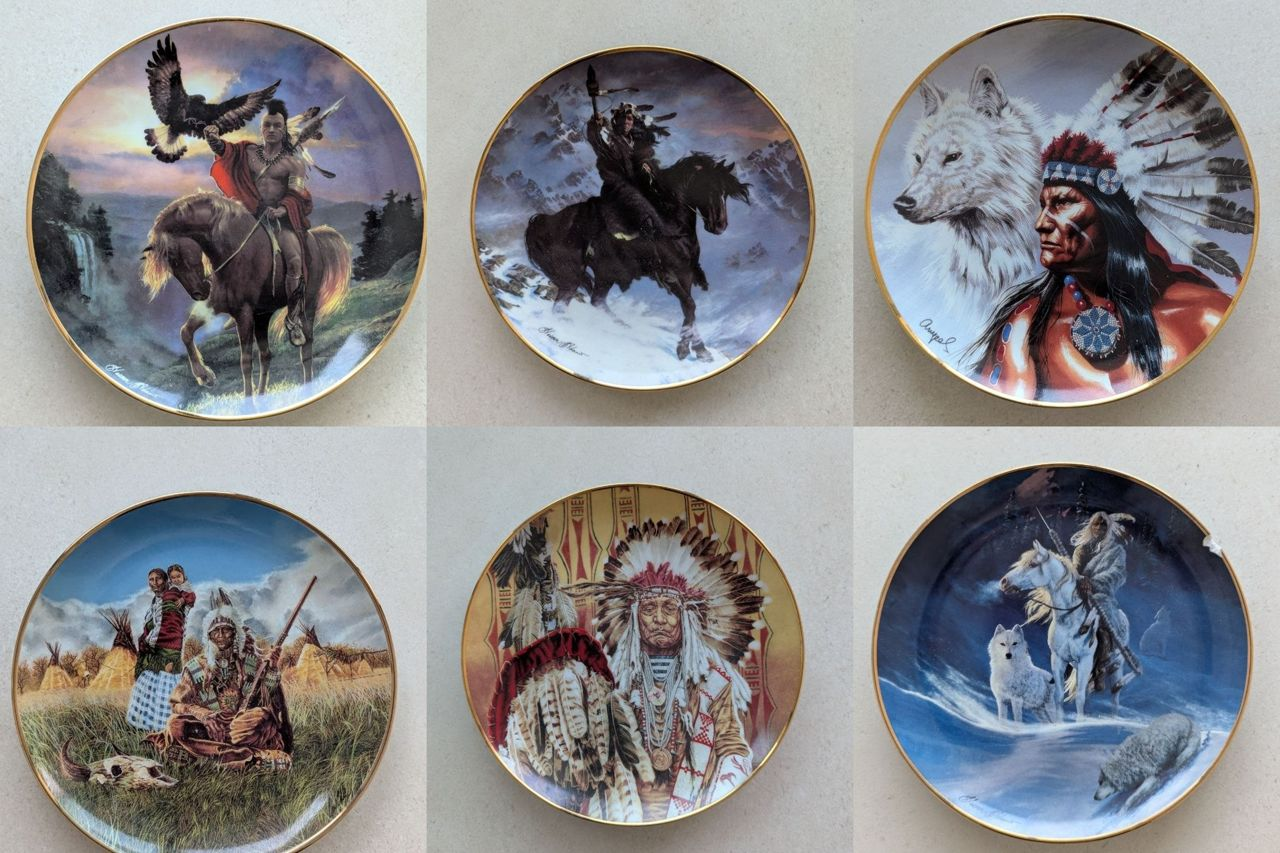
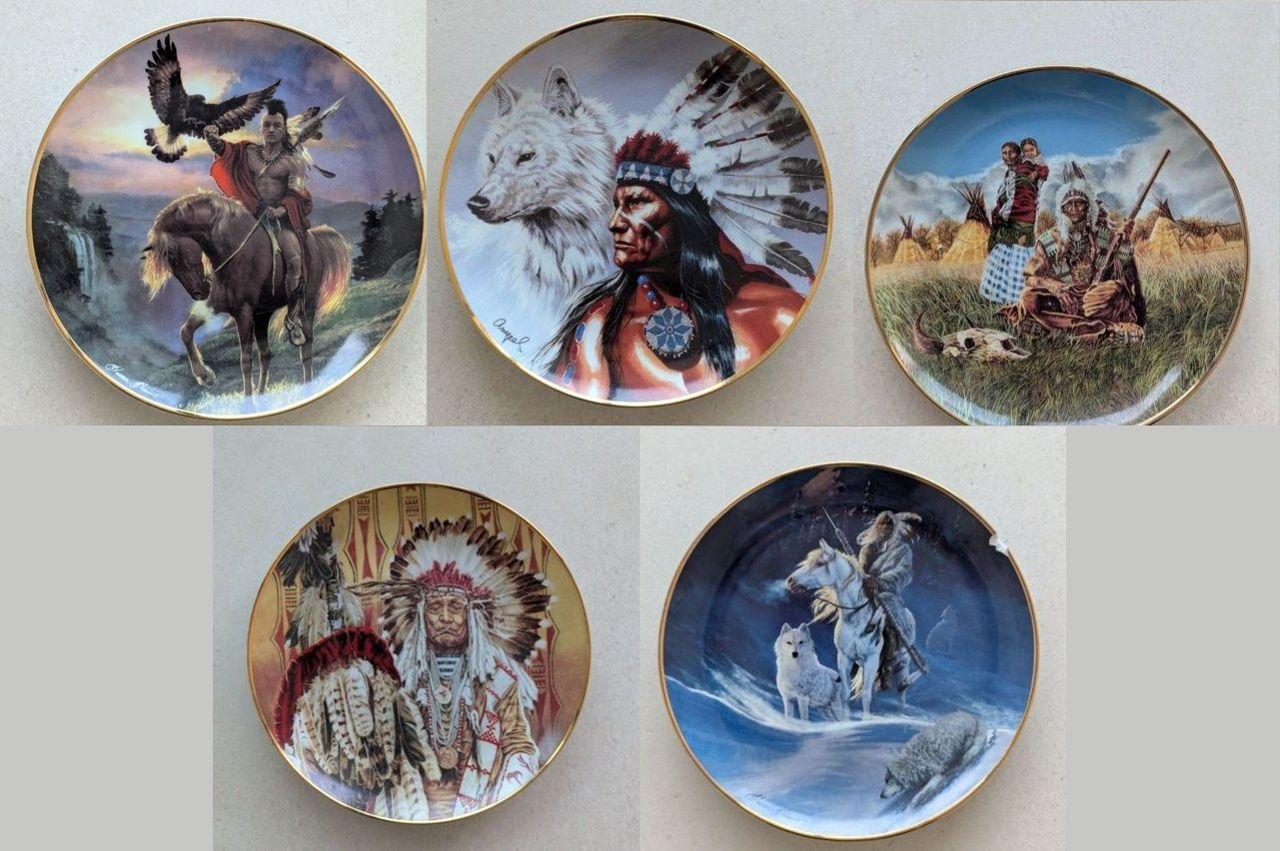
Pratos: tira o Spirit of the West Wind (dado à mãe do Ewerton); 5 pratos, conjunto R$ 310, colagem nova
Claude-Session: https://claude.ai/code/session_01KxhiXcbHDBDBS2g496oJWA

diff --git a/index.html b/index.html
@@ -180,7 +180,7 @@
 <article class="nota" style="--giro:1.3deg" data-id="panela"><div class="carrossel" data-total="9"><div class="trilho"><img src="fotos/panela-1-m.jpg" alt="Panela multifuncional Morphy Richards, marca britânica, 6 em 1, foto 1 de 9" draggable="false"><img src="fotos/panela-2-m.jpg" alt="Panela multifuncional Morphy Richards, marca britânica, 6 em 1, foto 2 de 9" loading="lazy" draggable="false"><img src="fotos/panela-3-m.jpg" alt="Panela multifuncional Morphy Richards, marca britânica, 6 em 1, foto 3 de 9" loading="lazy" draggable="false"><img src="fotos/panela-4-m.jpg" alt="Panela multifuncional Morphy Richards, marca britânica, 6 em 1, foto 4 de 9" loading="lazy" draggable="false"><img src="fotos/panela-5-m.jpg" alt="Panela multifuncional Morphy Richards, marca britânica, 6 em 1, foto 5 de 9" loading="lazy" draggable="false"><img src="fotos/panela-6-m.jpg" alt="Panela multifuncional Morphy Richards, marca britânica, 6 em 1, foto 6 de 9" loading="lazy" draggable="false"><img src="fotos/panela-7-m.jpg" alt="Panela multifuncional Morphy Richards, marca britânica, 6 em 1, foto 7 de 9" loading="lazy" draggable="false"><img src="fotos/panela-8-m.jpg" alt="Panela multifuncional Morphy Richards, marca britânica, 6 em 1, foto 8 de 9" loading="lazy" draggable="false"><img src="fotos/panela-9-m.jpg" alt="Panela multifuncional Morphy Richards, marca britânica, 6 em 1, foto 9 de 9" loading="lazy" draggable="false"></div><button class="seta ant" aria-label="Foto anterior"></button><button class="seta prox" aria-label="Próxima foto"></button><div class="pontos"></div><button class="curtir" aria-pressed="false" aria-label="Curtir este item" title="Curtir"></button></div><div class="texto"><h2>Panela multifuncional Morphy Richards, marca britânica, 6 em 1</h2><p>Nova, importada, 6 peças que se trocam</p><span class="preco">R$ 590</span><span class="baixou" hidden></span><div class="acoes"><button class="ver">Ver detalhes</button><a class="zap" data-local="cartao" target="_blank" rel="noopener">Quero este</a></div></div></article>
 <article class="nota" style="--giro:-0.8deg" data-id="armario"><div class="carrossel" data-total="6"><div class="trilho"><img src="fotos/armario-1-m.jpg" alt="Armário de aço com 75 gavetinhas, foto 1 de 6" draggable="false"><img src="fotos/armario-2-m.jpg" alt="Armário de aço com 75 gavetinhas, foto 2 de 6" loading="lazy" draggable="false"><img src="fotos/armario-3-m.jpg" alt="Armário de aço com 75 gavetinhas, foto 3 de 6" loading="lazy" draggable="false"><img src="fotos/armario-4-m.jpg" alt="Armário de aço com 75 gavetinhas, foto 4 de 6" loading="lazy" draggable="false"><img src="fotos/armario-5-m.jpg" alt="Armário de aço com 75 gavetinhas, foto 5 de 6" loading="lazy" draggable="false"><img src="fotos/armario-6-m.jpg" alt="Armário de aço com 75 gavetinhas, foto 6 de 6" loading="lazy" draggable="false"></div><button class="seta ant" aria-label="Foto anterior"></button><button class="seta prox" aria-label="Próxima foto"></button><div class="pontos"></div><button class="curtir" aria-pressed="false" aria-label="Curtir este item" title="Curtir"></button></div><div class="texto"><h2>Armário de aço com 75 gavetinhas</h2><p>Com chave, 98 x 68 x 28 cm</p><span class="preco">R$ 740</span><span class="baixou" hidden></span><div class="acoes"><button class="ver">Ver detalhes</button><a class="zap" data-local="cartao" target="_blank" rel="noopener">Quero este</a></div></div></article>
 <article class="nota" style="--giro:0.5deg" data-id="gaveteiros"><div class="carrossel" data-total="4"><div class="trilho"><img src="fotos/gaveteiros-1-m.jpg" alt="Gaveteiro com rodinhas e assento Bortolini, foto 1 de 4" draggable="false"><img src="fotos/gaveteiros-2-m.jpg" alt="Gaveteiro com rodinhas e assento Bortolini, foto 2 de 4" loading="lazy" draggable="false"><img src="fotos/gaveteiros-3-m.jpg" alt="Gaveteiro com rodinhas e assento Bortolini, foto 3 de 4" loading="lazy" draggable="false"><img src="fotos/gaveteiros-4-m.jpg" alt="Gaveteiro com rodinhas e assento Bortolini, foto 4 de 4" loading="lazy" draggable="false"></div><button class="seta ant" aria-label="Foto anterior"></button><button class="seta prox" aria-label="Próxima foto"></button><div class="pontos"></div><button class="curtir" aria-pressed="false" aria-label="Curtir este item" title="Curtir"></button></div><div class="texto"><h2>Gaveteiro com rodinhas e assento Bortolini</h2><p>Tenho 2 iguais, com almofada em cima</p><span class="preco">R$ 130 cada</span><span class="baixou" hidden></span><div class="acoes"><button class="ver">Ver detalhes</button><a class="zap" data-local="cartao" target="_blank" rel="noopener">Quero este</a></div></div></article>
-<article class="nota" style="--giro:-1.2deg" data-id="pratos"><div class="carrossel" data-total="8"><div class="trilho"><img src="fotos/pratos-1-m.jpg" alt="Pratos de coleção Franklin Mint, foto 1 de 8" draggable="false"><img src="fotos/pratos-2-m.jpg" alt="Pratos de coleção Franklin Mint, foto 2 de 8" loading="lazy" draggable="false"><img src="fotos/pratos-3-m.jpg" alt="Pratos de coleção Franklin Mint, foto 3 de 8" loading="lazy" draggable="false"><img src="fotos/pratos-4-m.jpg" alt="Pratos de coleção Franklin Mint, foto 4 de 8" loading="lazy" draggable="false"><img src="fotos/pratos-5-m.jpg" alt="Pratos de coleção Franklin Mint, foto 5 de 8" loading="lazy" draggable="false"><img src="fotos/pratos-6-m.jpg" alt="Pratos de coleção Franklin Mint, foto 6 de 8" loading="lazy" draggable="false"><img src="fotos/pratos-7-m.jpg" alt="Pratos de coleção Franklin Mint, foto 7 de 8" loading="lazy" draggable="false"><img src="fotos/pratos-8-m.jpg" alt="Pratos de coleção Franklin Mint, foto 8 de 8" loading="lazy" draggable="false"></div><button class="seta ant" aria-label="Foto anterior"></button><button class="seta prox" aria-label="Próxima foto"></button><div class="pontos"></div><button class="curtir" aria-pressed="false" aria-label="Curtir este item" title="Curtir"></button></div><div class="texto"><h2>Pratos de coleção Franklin Mint</h2><p>Porcelana pintada, para pendurar na parede</p><span class="preco">R$ 70 cada</span><span class="baixou" hidden></span><div class="acoes"><button class="ver">Ver detalhes</button><a class="zap" data-local="cartao" target="_blank" rel="noopener">Quero este</a></div></div></article>
+<article class="nota" style="--giro:-1.2deg" data-id="pratos"><div class="carrossel" data-total="7"><div class="trilho"><img src="fotos/pratos-1-m.jpg" alt="Pratos de coleção Franklin Mint, foto 1 de 7" draggable="false"><img src="fotos/pratos-2-m.jpg" alt="Pratos de coleção Franklin Mint, foto 2 de 7" loading="lazy" draggable="false"><img src="fotos/pratos-3-m.jpg" alt="Pratos de coleção Franklin Mint, foto 3 de 7" loading="lazy" draggable="false"><img src="fotos/pratos-4-m.jpg" alt="Pratos de coleção Franklin Mint, foto 4 de 7" loading="lazy" draggable="false"><img src="fotos/pratos-5-m.jpg" alt="Pratos de coleção Franklin Mint, foto 5 de 7" loading="lazy" draggable="false"><img src="fotos/pratos-6-m.jpg" alt="Pratos de coleção Franklin Mint, foto 6 de 7" loading="lazy" draggable="false"><img src="fotos/pratos-7-m.jpg" alt="Pratos de coleção Franklin Mint, foto 7 de 7" loading="lazy" draggable="false"></div><button class="seta ant" aria-label="Foto anterior"></button><button class="seta prox" aria-label="Próxima foto"></button><div class="pontos"></div><button class="curtir" aria-pressed="false" aria-label="Curtir este item" title="Curtir"></button></div><div class="texto"><h2>Pratos de coleção Franklin Mint</h2><p>Porcelana pintada, para pendurar na parede</p><span class="preco">R$ 70 cada</span><span class="baixou" hidden></span><div class="acoes"><button class="ver">Ver detalhes</button><a class="zap" data-local="cartao" target="_blank" rel="noopener">Quero este</a></div></div></article>
 <article class="nota" style="--giro:0.9deg" data-id="giz"><div class="carrossel" data-total="3"><div class="trilho"><img src="fotos/giz-1-m.jpg" alt="Giz de calçada Crayola, foto 1 de 3" draggable="false"><img src="fotos/giz-2-m.jpg" alt="Giz de calçada Crayola, foto 2 de 3" loading="lazy" draggable="false"><img src="fotos/giz-3-m.jpg" alt="Giz de calçada Crayola, foto 3 de 3" loading="lazy" draggable="false"></div><button class="seta ant" aria-label="Foto anterior"></button><button class="seta prox" aria-label="Próxima foto"></button><div class="pontos"></div><button class="curtir" aria-pressed="false" aria-label="Curtir este item" title="Curtir"></button></div><div class="texto"><h2>Giz de calçada Crayola</h2><p>Caixa com 48 gizes laváveis</p><span class="preco">R$ 50</span><span class="baixou" hidden></span><div class="acoes"><button class="ver">Ver detalhes</button><a class="zap" data-local="cartao" target="_blank" rel="noopener">Quero este</a></div></div></article>
 <article class="nota" style="--giro:-0.4deg" data-id="cabo"><div class="carrossel" data-total="4"><div class="trilho"><img src="fotos/cabo-1-m.jpg" alt="Cabo de rede para internet, foto 1 de 4" draggable="false"><img src="fotos/cabo-2-m.jpg" alt="Cabo de rede para internet, foto 2 de 4" loading="lazy" draggable="false"><img src="fotos/cabo-3-m.jpg" alt="Cabo de rede para internet, foto 3 de 4" loading="lazy" draggable="false"><img src="fotos/cabo-4-m.jpg" alt="Cabo de rede para internet, foto 4 de 4" loading="lazy" draggable="false"></div><button class="seta ant" aria-label="Foto anterior"></button><button class="seta prox" aria-label="Próxima foto"></button><div class="pontos"></div><button class="curtir" aria-pressed="false" aria-label="Curtir este item" title="Curtir"></button></div><div class="texto"><h2>Cabo de rede para internet</h2><p>Caixa de 305 m já aberta, sobra bastante</p><span class="preco">R$ 80</span><span class="baixou" hidden></span><div class="acoes"><button class="ver">Ver detalhes</button><a class="zap" data-local="cartao" target="_blank" rel="noopener">Quero este</a></div></div></article>
 <article class="nota" style="--giro:1.3deg" data-id="luva"><div class="carrossel" data-total="2"><div class="trilho"><img src="fotos/luva-1-m.jpg" alt="Luva de beisebol Rawlings, foto 1 de 2" draggable="false"><img src="fotos/luva-2-m.jpg" alt="Luva de beisebol Rawlings, foto 2 de 2" loading="lazy" draggable="false"></div><button class="seta ant" aria-label="Foto anterior"></button><button class="seta prox" aria-label="Próxima foto"></button><div class="pontos"></div><button class="curtir" aria-pressed="false" aria-label="Curtir este item" title="Curtir"></button></div><div class="texto"><h2>Luva de beisebol Rawlings</h2><p>Tamanho adulto, 13 polegadas</p><span class="preco">R$ 80</span><span class="baixou" hidden></span><div class="acoes"><button class="ver">Ver detalhes</button><a class="zap" data-local="cartao" target="_blank" rel="noopener">Quero este</a></div></div></article>
@@ -206,7 +206,7 @@
 </dialog>
 
 <script>
-const DADOS = {"watch4": {"nome": "Smartwatch Samsung Galaxy Watch4", "preco": "R$ 460", "descricao": "Samsung Galaxy Watch4 de 40 mm, versão Bluetooth, preto, com a pulseira original.\nMede passos, batimentos, sono e treinos, e mostra as notificações do celular (funciona com Android).\nVai com a caixa e o carregador. Tem marcas leves de uso e está tudo funcionando.", "html": "<div class=\"trilho\"><img src=\"fotos/watch4-1-g.jpg\" alt=\"Smartwatch Samsung Galaxy Watch4, foto 1 de 4\" draggable=\"false\"><img src=\"fotos/watch4-2-g.jpg\" alt=\"Smartwatch Samsung Galaxy Watch4, foto 2 de 4\" loading=\"lazy\" draggable=\"false\"><img src=\"fotos/watch4-3-g.jpg\" alt=\"Smartwatch Samsung Galaxy Watch4, foto 3 de 4\" loading=\"lazy\" draggable=\"false\"><img src=\"fotos/watch4-4-g.jpg\" alt=\"Smartwatch Samsung Galaxy Watch4, foto 4 de 4\" loading=\"lazy\" draggable=\"false\"><\/div>", "total": 4}, "lava-e-seca": {"nome": "Lava e seca Samsung Smart 13 kg inox", "preco": "R$ 3.500", "descricao": "Lava e seca Samsung WD13T Smart, 13 kg, 127 V, cor inox. Dá para ligar e acompanhar a lavagem pelo celular, no aplicativo SmartThings.\nComprada em outubro de 2024 e funcionando. Lava e seca no mesmo ciclo, então dispensa a secadora separada.\nVai com o manual e a capa protetora.", "html": "<div class=\"trilho\"><img src=\"fotos/lava-e-seca-1-g.jpg\" alt=\"Lava e seca Samsung Smart 13 kg inox, foto 1 de 6\" draggable=\"false\"><img src=\"fotos/lava-e-seca-2-g.jpg\" alt=\"Lava e seca Samsung Smart 13 kg inox, foto 2 de 6\" loading=\"lazy\" draggable=\"false\"><img src=\"fotos/lava-e-seca-3-g.jpg\" alt=\"Lava e seca Samsung Smart 13 kg inox, foto 3 de 6\" loading=\"lazy\" draggable=\"false\"><img src=\"fotos/lava-e-seca-4-g.jpg\" alt=\"Lava e seca Samsung Smart 13 kg inox, foto 4 de 6\" loading=\"lazy\" draggable=\"false\"><img src=\"fotos/lava-e-seca-5-g.jpg\" alt=\"Lava e seca Samsung Smart 13 kg inox, foto 5 de 6\" loading=\"lazy\" draggable=\"false\"><img src=\"fotos/lava-e-seca-6-g.jpg\" alt=\"Lava e seca Samsung Smart 13 kg inox, foto 6 de 6\" loading=\"lazy\" draggable=\"false\"><\/div>", "total": 6}, "traxxas": {"nome": "Traxxas Slash 2WD, carro RC de hobby", "preco": "R$ 1.700", "descricao": "Traxxas Slash 2WD, carro de controle remoto de hobby (RC) da Traxxas, marca americana referência no segmento. Elétrico, escala 1/10, bem maior e mais rápido que um carrinho de brinquedo.\nVai completo: rádio, baterias e carregador.\nFoi pouquíssimo usado e está funcionando.", "html": "<div class=\"trilho\"><img src=\"fotos/traxxas-1-g.jpg\" alt=\"Traxxas Slash 2WD, carro RC de hobby, foto 1 de 6\" draggable=\"false\"><img src=\"fotos/traxxas-2-g.jpg\" alt=\"Traxxas Slash 2WD, carro RC de hobby, foto 2 de 6\" loading=\"lazy\" draggable=\"false\"><img src=\"fotos/traxxas-3-g.jpg\" alt=\"Traxxas Slash 2WD, carro RC de hobby, foto 3 de 6\" loading=\"lazy\" draggable=\"false\"><img src=\"fotos/traxxas-4-g.jpg\" alt=\"Traxxas Slash 2WD, carro RC de hobby, foto 4 de 6\" loading=\"lazy\" draggable=\"false\"><img src=\"fotos/traxxas-5-g.jpg\" alt=\"Traxxas Slash 2WD, carro RC de hobby, foto 5 de 6\" loading=\"lazy\" draggable=\"false\"><img src=\"fotos/traxxas-6-g.jpg\" alt=\"Traxxas Slash 2WD, carro RC de hobby, foto 6 de 6\" loading=\"lazy\" draggable=\"false\"><\/div>", "total": 6}, "panela": {"nome": "Panela multifuncional Morphy Richards, marca britânica, 6 em 1", "preco": "R$ 590", "descricao": "Panela elétrica multifuncional Morphy Richards (modelo MR9088), nova e nunca usada; só a caixa foi aberta. A Morphy Richards é uma marca britânica de eletrodomésticos, fundada em 1936, e esta unidade é importada.\nSão 6 peças que se trocam: chapa lisa, chapa grelha, forma de bolinhos, forma redonda para ovos e panquecas, panela funda e cesto para cozinhar no vapor. Potência de 1.400 W.\nAtenção: esta é a versão vendida na China, então é 220 V e o plugue é chinês. Precisa de uma tomada 220 V e de um adaptador de plugue, que custa poucos reais.", "html": "<div class=\"trilho\"><img src=\"fotos/panela-1-g.jpg\" alt=\"Panela multifuncional Morphy Richards, marca britânica, 6 em 1, foto 1 de 9\" draggable=\"false\"><img src=\"fotos/panela-2-g.jpg\" alt=\"Panela multifuncional Morphy Richards, marca britânica, 6 em 1, foto 2 de 9\" loading=\"lazy\" draggable=\"false\"><img src=\"fotos/panela-3-g.jpg\" alt=\"Panela multifuncional Morphy Richards, marca britânica, 6 em 1, foto 3 de 9\" loading=\"lazy\" draggable=\"false\"><img src=\"fotos/panela-4-g.jpg\" alt=\"Panela multifuncional Morphy Richards, marca britânica, 6 em 1, foto 4 de 9\" loading=\"lazy\" draggable=\"false\"><img src=\"fotos/panela-5-g.jpg\" alt=\"Panela multifuncional Morphy Richards, marca britânica, 6 em 1, foto 5 de 9\" loading=\"lazy\" draggable=\"false\"><img src=\"fotos/panela-6-g.jpg\" alt=\"Panela multifuncional Morphy Richards, marca britânica, 6 em 1, foto 6 de 9\" loading=\"lazy\" draggable=\"false\"><img src=\"fotos/panela-7-g.jpg\" alt=\"Panela multifuncional Morphy Richards, marca britânica, 6 em 1, foto 7 de 9\" loading=\"lazy\" draggable=\"false\"><img src=\"fotos/panela-8-g.jpg\" alt=\"Panela multifuncional Morphy Richards, marca britânica, 6 em 1, foto 8 de 9\" loading=\"lazy\" draggable=\"false\"><img src=\"fotos/panela-9-g.jpg\" alt=\"Panela multifuncional Morphy Richards, marca britânica, 6 em 1, foto 9 de 9\" loading=\"lazy\" draggable=\"false\"><\/div>", "total": 9}, "armario": {"nome": "Armário de aço com 75 gavetinhas", "preco": "R$ 740", "descricao": "Armário de aço com portas e chave, com 75 gavetinhas de acrílico transparente. Medidas: 98 x 68 x 28 cm.\nBom para organizar ferramentas, parafusos, material de artesanato, maquiagem ou peças pequenas.\nTem alguns amassados na lata.", "html": "<div class=\"trilho\"><img src=\"fotos/armario-1-g.jpg\" alt=\"Armário de aço com 75 gavetinhas, foto 1 de 6\" draggable=\"false\"><img src=\"fotos/armario-2-g.jpg\" alt=\"Armário de aço com 75 gavetinhas, foto 2 de 6\" loading=\"lazy\" draggable=\"false\"><img src=\"fotos/armario-3-g.jpg\" alt=\"Armário de aço com 75 gavetinhas, foto 3 de 6\" loading=\"lazy\" draggable=\"false\"><img src=\"fotos/armario-4-g.jpg\" alt=\"Armário de aço com 75 gavetinhas, foto 4 de 6\" loading=\"lazy\" draggable=\"false\"><img src=\"fotos/armario-5-g.jpg\" alt=\"Armário de aço com 75 gavetinhas, foto 5 de 6\" loading=\"lazy\" draggable=\"false\"><img src=\"fotos/armario-6-g.jpg\" alt=\"Armário de aço com 75 gavetinhas, foto 6 de 6\" loading=\"lazy\" draggable=\"false\"><\/div>", "total": 6}, "gaveteiros": {"nome": "Gaveteiro com rodinhas e assento Bortolini", "preco": "R$ 130 cada", "descricao": "Gaveteiro de escritório Bortolini com rodinhas e almofada em cima, que também serve de banquinho. Tem 3 gavetas, a de baixo funda para pastas.\nTenho 2 iguais e vendo separado: R$ 130 cada.\nNão tenho a chave da fechadura.", "html": "<div class=\"trilho\"><img src=\"fotos/gaveteiros-1-g.jpg\" alt=\"Gaveteiro com rodinhas e assento Bortolini, foto 1 de 4\" draggable=\"false\"><img src=\"fotos/gaveteiros-2-g.jpg\" alt=\"Gaveteiro com rodinhas e assento Bortolini, foto 2 de 4\" loading=\"lazy\" draggable=\"false\"><img src=\"fotos/gaveteiros-3-g.jpg\" alt=\"Gaveteiro com rodinhas e assento Bortolini, foto 3 de 4\" loading=\"lazy\" draggable=\"false\"><img src=\"fotos/gaveteiros-4-g.jpg\" alt=\"Gaveteiro com rodinhas e assento Bortolini, foto 4 de 4\" loading=\"lazy\" draggable=\"false\"><\/div>", "total": 4}, "pratos": {"nome": "Pratos de coleção Franklin Mint", "preco": "R$ 70 cada", "descricao": "Seis pratos decorativos de porcelana Franklin Mint, de edição limitada e numerados, com borda dourada. Feitos para pendurar na parede.\nPinturas de tema indígena norte-americano, dos artistas Hermon Adams, Paul Calle e Gary Ampel.\nR$ 70 cada, ou os 6 por R$ 380. O de fundo azul, com os lobos, tem um pequeno lascado na borda e sai por R$ 30.", "html": "<div class=\"trilho\"><img src=\"fotos/pratos-1-g.jpg\" alt=\"Pratos de coleção Franklin Mint, foto 1 de 8\" draggable=\"false\"><img src=\"fotos/pratos-2-g.jpg\" alt=\"Pratos de coleção Franklin Mint, foto 2 de 8\" loading=\"lazy\" draggable=\"false\"><img src=\"fotos/pratos-3-g.jpg\" alt=\"Pratos de coleção Franklin Mint, foto 3 de 8\" loading=\"lazy\" draggable=\"false\"><img src=\"fotos/pratos-4-g.jpg\" alt=\"Pratos de coleção Franklin Mint, foto 4 de 8\" loading=\"lazy\" draggable=\"false\"><img src=\"fotos/pratos-5-g.jpg\" alt=\"Pratos de coleção Franklin Mint, foto 5 de 8\" loading=\"lazy\" draggable=\"false\"><img src=\"fotos/pratos-6-g.jpg\" alt=\"Pratos de coleção Franklin Mint, foto 6 de 8\" loading=\"lazy\" draggable=\"false\"><img src=\"fotos/pratos-7-g.jpg\" alt=\"Pratos de coleção Franklin Mint, foto 7 de 8\" loading=\"lazy\" draggable=\"false\"><img src=\"fotos/pratos-8-g.jpg\" alt=\"Pratos de coleção Franklin Mint, foto 8 de 8\" loading=\"lazy\" draggable=\"false\"><\/div>", "total": 8}, "giz": {"nome": "Giz de calçada Crayola", "preco": "R$ 50", "descricao": "Caixa com 48 gizes de calçada Crayola, coloridos e laváveis, para as crianças desenharem no chão do playground. Sai com água.", "html": "<div class=\"trilho\"><img src=\"fotos/giz-1-g.jpg\" alt=\"Giz de calçada Crayola, foto 1 de 3\" draggable=\"false\"><img src=\"fotos/giz-2-g.jpg\" alt=\"Giz de calçada Crayola, foto 2 de 3\" loading=\"lazy\" draggable=\"false\"><img src=\"fotos/giz-3-g.jpg\" alt=\"Giz de calçada Crayola, foto 3 de 3\" loading=\"lazy\" draggable=\"false\"><\/div>", "total": 3}, "cabo": {"nome": "Cabo de rede para internet", "preco": "R$ 80", "descricao": "Cabo de rede para levar a internet do roteador até outro cômodo: a TV, o videogame, o computador do escritório ou um ponto de wi-fi no quarto do fundo. Pelo cabo, a conexão fica mais estável que pelo wi-fi.\nA caixa original é de 305 m e já foi aberta; não medi quanto sobrou, mas é bastante cabo.\nVem sem os conectores nas pontas: quem instala coloca na hora.", "html": "<div class=\"trilho\"><img src=\"fotos/cabo-1-g.jpg\" alt=\"Cabo de rede para internet, foto 1 de 4\" draggable=\"false\"><img src=\"fotos/cabo-2-g.jpg\" alt=\"Cabo de rede para internet, foto 2 de 4\" loading=\"lazy\" draggable=\"false\"><img src=\"fotos/cabo-3-g.jpg\" alt=\"Cabo de rede para internet, foto 3 de 4\" loading=\"lazy\" draggable=\"false\"><img src=\"fotos/cabo-4-g.jpg\" alt=\"Cabo de rede para internet, foto 4 de 4\" loading=\"lazy\" draggable=\"false\"><\/div>", "total": 4}, "luva": {"nome": "Luva de beisebol Rawlings", "preco": "R$ 80", "descricao": "Luva de beisebol e softbol Rawlings, modelo RSB130GB, tamanho adulto (13 polegadas).", "html": "<div class=\"trilho\"><img src=\"fotos/luva-1-g.jpg\" alt=\"Luva de beisebol Rawlings, foto 1 de 2\" draggable=\"false\"><img src=\"fotos/luva-2-g.jpg\" alt=\"Luva de beisebol Rawlings, foto 2 de 2\" loading=\"lazy\" draggable=\"false\"><\/div>", "total": 2}, "ssd": {"nome": "SSD de 128 GB para notebook ou Steam Deck", "preco": "R$ 160", "descricao": "SSD Western Digital de 128 GB, no formato pequeno M.2 2230. É o tipo usado em alguns notebooks finos, no Surface e no Steam Deck.\nAntes de comprar, confira se o seu aparelho usa esse formato.", "html": "<div class=\"trilho\"><img src=\"fotos/ssd-1-g.jpg\" alt=\"SSD de 128 GB para notebook ou Steam Deck, foto 1 de 3\" draggable=\"false\"><img src=\"fotos/ssd-2-g.jpg\" alt=\"SSD de 128 GB para notebook ou Steam Deck, foto 2 de 3\" loading=\"lazy\" draggable=\"false\"><img src=\"fotos/ssd-3-g.jpg\" alt=\"SSD de 128 GB para notebook ou Steam Deck, foto 3 de 3\" loading=\"lazy\" draggable=\"false\"><\/div>", "total": 3}};
+const DADOS = {"watch4": {"nome": "Smartwatch Samsung Galaxy Watch4", "preco": "R$ 460", "descricao": "Samsung Galaxy Watch4 de 40 mm, versão Bluetooth, preto, com a pulseira original.\nMede passos, batimentos, sono e treinos, e mostra as notificações do celular (funciona com Android).\nVai com a caixa e o carregador. Tem marcas leves de uso e está tudo funcionando.", "html": "<div class=\"trilho\"><img src=\"fotos/watch4-1-g.jpg\" alt=\"Smartwatch Samsung Galaxy Watch4, foto 1 de 4\" draggable=\"false\"><img src=\"fotos/watch4-2-g.jpg\" alt=\"Smartwatch Samsung Galaxy Watch4, foto 2 de 4\" loading=\"lazy\" draggable=\"false\"><img src=\"fotos/watch4-3-g.jpg\" alt=\"Smartwatch Samsung Galaxy Watch4, foto 3 de 4\" loading=\"lazy\" draggable=\"false\"><img src=\"fotos/watch4-4-g.jpg\" alt=\"Smartwatch Samsung Galaxy Watch4, foto 4 de 4\" loading=\"lazy\" draggable=\"false\"><\/div>", "total": 4}, "lava-e-seca": {"nome": "Lava e seca Samsung Smart 13 kg inox", "preco": "R$ 3.500", "descricao": "Lava e seca Samsung WD13T Smart, 13 kg, 127 V, cor inox. Dá para ligar e acompanhar a lavagem pelo celular, no aplicativo SmartThings.\nComprada em outubro de 2024 e funcionando. Lava e seca no mesmo ciclo, então dispensa a secadora separada.\nVai com o manual e a capa protetora.", "html": "<div class=\"trilho\"><img src=\"fotos/lava-e-seca-1-g.jpg\" alt=\"Lava e seca Samsung Smart 13 kg inox, foto 1 de 6\" draggable=\"false\"><img src=\"fotos/lava-e-seca-2-g.jpg\" alt=\"Lava e seca Samsung Smart 13 kg inox, foto 2 de 6\" loading=\"lazy\" draggable=\"false\"><img src=\"fotos/lava-e-seca-3-g.jpg\" alt=\"Lava e seca Samsung Smart 13 kg inox, foto 3 de 6\" loading=\"lazy\" draggable=\"false\"><img src=\"fotos/lava-e-seca-4-g.jpg\" alt=\"Lava e seca Samsung Smart 13 kg inox, foto 4 de 6\" loading=\"lazy\" draggable=\"false\"><img src=\"fotos/lava-e-seca-5-g.jpg\" alt=\"Lava e seca Samsung Smart 13 kg inox, foto 5 de 6\" loading=\"lazy\" draggable=\"false\"><img src=\"fotos/lava-e-seca-6-g.jpg\" alt=\"Lava e seca Samsung Smart 13 kg inox, foto 6 de 6\" loading=\"lazy\" draggable=\"false\"><\/div>", "total": 6}, "traxxas": {"nome": "Traxxas Slash 2WD, carro RC de hobby", "preco": "R$ 1.700", "descricao": "Traxxas Slash 2WD, carro de controle remoto de hobby (RC) da Traxxas, marca americana referência no segmento. Elétrico, escala 1/10, bem maior e mais rápido que um carrinho de brinquedo.\nVai completo: rádio, baterias e carregador.\nFoi pouquíssimo usado e está funcionando.", "html": "<div class=\"trilho\"><img src=\"fotos/traxxas-1-g.jpg\" alt=\"Traxxas Slash 2WD, carro RC de hobby, foto 1 de 6\" draggable=\"false\"><img src=\"fotos/traxxas-2-g.jpg\" alt=\"Traxxas Slash 2WD, carro RC de hobby, foto 2 de 6\" loading=\"lazy\" draggable=\"false\"><img src=\"fotos/traxxas-3-g.jpg\" alt=\"Traxxas Slash 2WD, carro RC de hobby, foto 3 de 6\" loading=\"lazy\" draggable=\"false\"><img src=\"fotos/traxxas-4-g.jpg\" alt=\"Traxxas Slash 2WD, carro RC de hobby, foto 4 de 6\" loading=\"lazy\" draggable=\"false\"><img src=\"fotos/traxxas-5-g.jpg\" alt=\"Traxxas Slash 2WD, carro RC de hobby, foto 5 de 6\" loading=\"lazy\" draggable=\"false\"><img src=\"fotos/traxxas-6-g.jpg\" alt=\"Traxxas Slash 2WD, carro RC de hobby, foto 6 de 6\" loading=\"lazy\" draggable=\"false\"><\/div>", "total": 6}, "panela": {"nome": "Panela multifuncional Morphy Richards, marca britânica, 6 em 1", "preco": "R$ 590", "descricao": "Panela elétrica multifuncional Morphy Richards (modelo MR9088), nova e nunca usada; só a caixa foi aberta. A Morphy Richards é uma marca britânica de eletrodomésticos, fundada em 1936, e esta unidade é importada.\nSão 6 peças que se trocam: chapa lisa, chapa grelha, forma de bolinhos, forma redonda para ovos e panquecas, panela funda e cesto para cozinhar no vapor. Potência de 1.400 W.\nAtenção: esta é a versão vendida na China, então é 220 V e o plugue é chinês. Precisa de uma tomada 220 V e de um adaptador de plugue, que custa poucos reais.", "html": "<div class=\"trilho\"><img src=\"fotos/panela-1-g.jpg\" alt=\"Panela multifuncional Morphy Richards, marca britânica, 6 em 1, foto 1 de 9\" draggable=\"false\"><img src=\"fotos/panela-2-g.jpg\" alt=\"Panela multifuncional Morphy Richards, marca britânica, 6 em 1, foto 2 de 9\" loading=\"lazy\" draggable=\"false\"><img src=\"fotos/panela-3-g.jpg\" alt=\"Panela multifuncional Morphy Richards, marca britânica, 6 em 1, foto 3 de 9\" loading=\"lazy\" draggable=\"false\"><img src=\"fotos/panela-4-g.jpg\" alt=\"Panela multifuncional Morphy Richards, marca britânica, 6 em 1, foto 4 de 9\" loading=\"lazy\" draggable=\"false\"><img src=\"fotos/panela-5-g.jpg\" alt=\"Panela multifuncional Morphy Richards, marca britânica, 6 em 1, foto 5 de 9\" loading=\"lazy\" draggable=\"false\"><img src=\"fotos/panela-6-g.jpg\" alt=\"Panela multifuncional Morphy Richards, marca britânica, 6 em 1, foto 6 de 9\" loading=\"lazy\" draggable=\"false\"><img src=\"fotos/panela-7-g.jpg\" alt=\"Panela multifuncional Morphy Richards, marca britânica, 6 em 1, foto 7 de 9\" loading=\"lazy\" draggable=\"false\"><img src=\"fotos/panela-8-g.jpg\" alt=\"Panela multifuncional Morphy Richards, marca britânica, 6 em 1, foto 8 de 9\" loading=\"lazy\" draggable=\"false\"><img src=\"fotos/panela-9-g.jpg\" alt=\"Panela multifuncional Morphy Richards, marca britânica, 6 em 1, foto 9 de 9\" loading=\"lazy\" draggable=\"false\"><\/div>", "total": 9}, "armario": {"nome": "Armário de aço com 75 gavetinhas", "preco": "R$ 740", "descricao": "Armário de aço com portas e chave, com 75 gavetinhas de acrílico transparente. Medidas: 98 x 68 x 28 cm.\nBom para organizar ferramentas, parafusos, material de artesanato, maquiagem ou peças pequenas.\nTem alguns amassados na lata.", "html": "<div class=\"trilho\"><img src=\"fotos/armario-1-g.jpg\" alt=\"Armário de aço com 75 gavetinhas, foto 1 de 6\" draggable=\"false\"><img src=\"fotos/armario-2-g.jpg\" alt=\"Armário de aço com 75 gavetinhas, foto 2 de 6\" loading=\"lazy\" draggable=\"false\"><img src=\"fotos/armario-3-g.jpg\" alt=\"Armário de aço com 75 gavetinhas, foto 3 de 6\" loading=\"lazy\" draggable=\"false\"><img src=\"fotos/armario-4-g.jpg\" alt=\"Armário de aço com 75 gavetinhas, foto 4 de 6\" loading=\"lazy\" draggable=\"false\"><img src=\"fotos/armario-5-g.jpg\" alt=\"Armário de aço com 75 gavetinhas, foto 5 de 6\" loading=\"lazy\" draggable=\"false\"><img src=\"fotos/armario-6-g.jpg\" alt=\"Armário de aço com 75 gavetinhas, foto 6 de 6\" loading=\"lazy\" draggable=\"false\"><\/div>", "total": 6}, "gaveteiros": {"nome": "Gaveteiro com rodinhas e assento Bortolini", "preco": "R$ 130 cada", "descricao": "Gaveteiro de escritório Bortolini com rodinhas e almofada em cima, que também serve de banquinho. Tem 3 gavetas, a de baixo funda para pastas.\nTenho 2 iguais e vendo separado: R$ 130 cada.\nNão tenho a chave da fechadura.", "html": "<div class=\"trilho\"><img src=\"fotos/gaveteiros-1-g.jpg\" alt=\"Gaveteiro com rodinhas e assento Bortolini, foto 1 de 4\" draggable=\"false\"><img src=\"fotos/gaveteiros-2-g.jpg\" alt=\"Gaveteiro com rodinhas e assento Bortolini, foto 2 de 4\" loading=\"lazy\" draggable=\"false\"><img src=\"fotos/gaveteiros-3-g.jpg\" alt=\"Gaveteiro com rodinhas e assento Bortolini, foto 3 de 4\" loading=\"lazy\" draggable=\"false\"><img src=\"fotos/gaveteiros-4-g.jpg\" alt=\"Gaveteiro com rodinhas e assento Bortolini, foto 4 de 4\" loading=\"lazy\" draggable=\"false\"><\/div>", "total": 4}, "pratos": {"nome": "Pratos de coleção Franklin Mint", "preco": "R$ 70 cada", "descricao": "Cinco pratos decorativos de porcelana Franklin Mint, de edição limitada e numerados, com borda dourada. Feitos para pendurar na parede.\nPinturas de tema indígena norte-americano, dos artistas Hermon Adams, Paul Calle e Gary Ampel.\nR$ 70 cada, ou os 5 por R$ 310. O de fundo azul, com os lobos, tem um pequeno lascado na borda e sai por R$ 30.", "html": "<div class=\"trilho\"><img src=\"fotos/pratos-1-g.jpg\" alt=\"Pratos de coleção Franklin Mint, foto 1 de 7\" draggable=\"false\"><img src=\"fotos/pratos-2-g.jpg\" alt=\"Pratos de coleção Franklin Mint, foto 2 de 7\" loading=\"lazy\" draggable=\"false\"><img src=\"fotos/pratos-3-g.jpg\" alt=\"Pratos de coleção Franklin Mint, foto 3 de 7\" loading=\"lazy\" draggable=\"false\"><img src=\"fotos/pratos-4-g.jpg\" alt=\"Pratos de coleção Franklin Mint, foto 4 de 7\" loading=\"lazy\" draggable=\"false\"><img src=\"fotos/pratos-5-g.jpg\" alt=\"Pratos de coleção Franklin Mint, foto 5 de 7\" loading=\"lazy\" draggable=\"false\"><img src=\"fotos/pratos-6-g.jpg\" alt=\"Pratos de coleção Franklin Mint, foto 6 de 7\" loading=\"lazy\" draggable=\"false\"><img src=\"fotos/pratos-7-g.jpg\" alt=\"Pratos de coleção Franklin Mint, foto 7 de 7\" loading=\"lazy\" draggable=\"false\"><\/div>", "total": 7}, "giz": {"nome": "Giz de calçada Crayola", "preco": "R$ 50", "descricao": "Caixa com 48 gizes de calçada Crayola, coloridos e laváveis, para as crianças desenharem no chão do playground. Sai com água.", "html": "<div class=\"trilho\"><img src=\"fotos/giz-1-g.jpg\" alt=\"Giz de calçada Crayola, foto 1 de 3\" draggable=\"false\"><img src=\"fotos/giz-2-g.jpg\" alt=\"Giz de calçada Crayola, foto 2 de 3\" loading=\"lazy\" draggable=\"false\"><img src=\"fotos/giz-3-g.jpg\" alt=\"Giz de calçada Crayola, foto 3 de 3\" loading=\"lazy\" draggable=\"false\"><\/div>", "total": 3}, "cabo": {"nome": "Cabo de rede para internet", "preco": "R$ 80", "descricao": "Cabo de rede para levar a internet do roteador até outro cômodo: a TV, o videogame, o computador do escritório ou um ponto de wi-fi no quarto do fundo. Pelo cabo, a conexão fica mais estável que pelo wi-fi.\nA caixa original é de 305 m e já foi aberta; não medi quanto sobrou, mas é bastante cabo.\nVem sem os conectores nas pontas: quem instala coloca na hora.", "html": "<div class=\"trilho\"><img src=\"fotos/cabo-1-g.jpg\" alt=\"Cabo de rede para internet, foto 1 de 4\" draggable=\"false\"><img src=\"fotos/cabo-2-g.jpg\" alt=\"Cabo de rede para internet, foto 2 de 4\" loading=\"lazy\" draggable=\"false\"><img src=\"fotos/cabo-3-g.jpg\" alt=\"Cabo de rede para internet, foto 3 de 4\" loading=\"lazy\" draggable=\"false\"><img src=\"fotos/cabo-4-g.jpg\" alt=\"Cabo de rede para internet, foto 4 de 4\" loading=\"lazy\" draggable=\"false\"><\/div>", "total": 4}, "luva": {"nome": "Luva de beisebol Rawlings", "preco": "R$ 80", "descricao": "Luva de beisebol e softbol Rawlings, modelo RSB130GB, tamanho adulto (13 polegadas).", "html": "<div class=\"trilho\"><img src=\"fotos/luva-1-g.jpg\" alt=\"Luva de beisebol Rawlings, foto 1 de 2\" draggable=\"false\"><img src=\"fotos/luva-2-g.jpg\" alt=\"Luva de beisebol Rawlings, foto 2 de 2\" loading=\"lazy\" draggable=\"false\"><\/div>", "total": 2}, "ssd": {"nome": "SSD de 128 GB para notebook ou Steam Deck", "preco": "R$ 160", "descricao": "SSD Western Digital de 128 GB, no formato pequeno M.2 2230. É o tipo usado em alguns notebooks finos, no Surface e no Steam Deck.\nAntes de comprar, confira se o seu aparelho usa esse formato.", "html": "<div class=\"trilho\"><img src=\"fotos/ssd-1-g.jpg\" alt=\"SSD de 128 GB para notebook ou Steam Deck, foto 1 de 3\" draggable=\"false\"><img src=\"fotos/ssd-2-g.jpg\" alt=\"SSD de 128 GB para notebook ou Steam Deck, foto 2 de 3\" loading=\"lazy\" draggable=\"false\"><img src=\"fotos/ssd-3-g.jpg\" alt=\"SSD de 128 GB para notebook ou Steam Deck, foto 3 de 3\" loading=\"lazy\" draggable=\"false\"><\/div>", "total": 3}};
 const FONE = '5521995020427';
 const API = 'https://wasbvkkavtmrxssytwho.supabase.co/rest/v1/desapegos_eventos';
 const CHAVE = 'sb_publishable_QYf4rI8sp3Q3EaJ3Rs5PVQ_UT0FI5aO';
